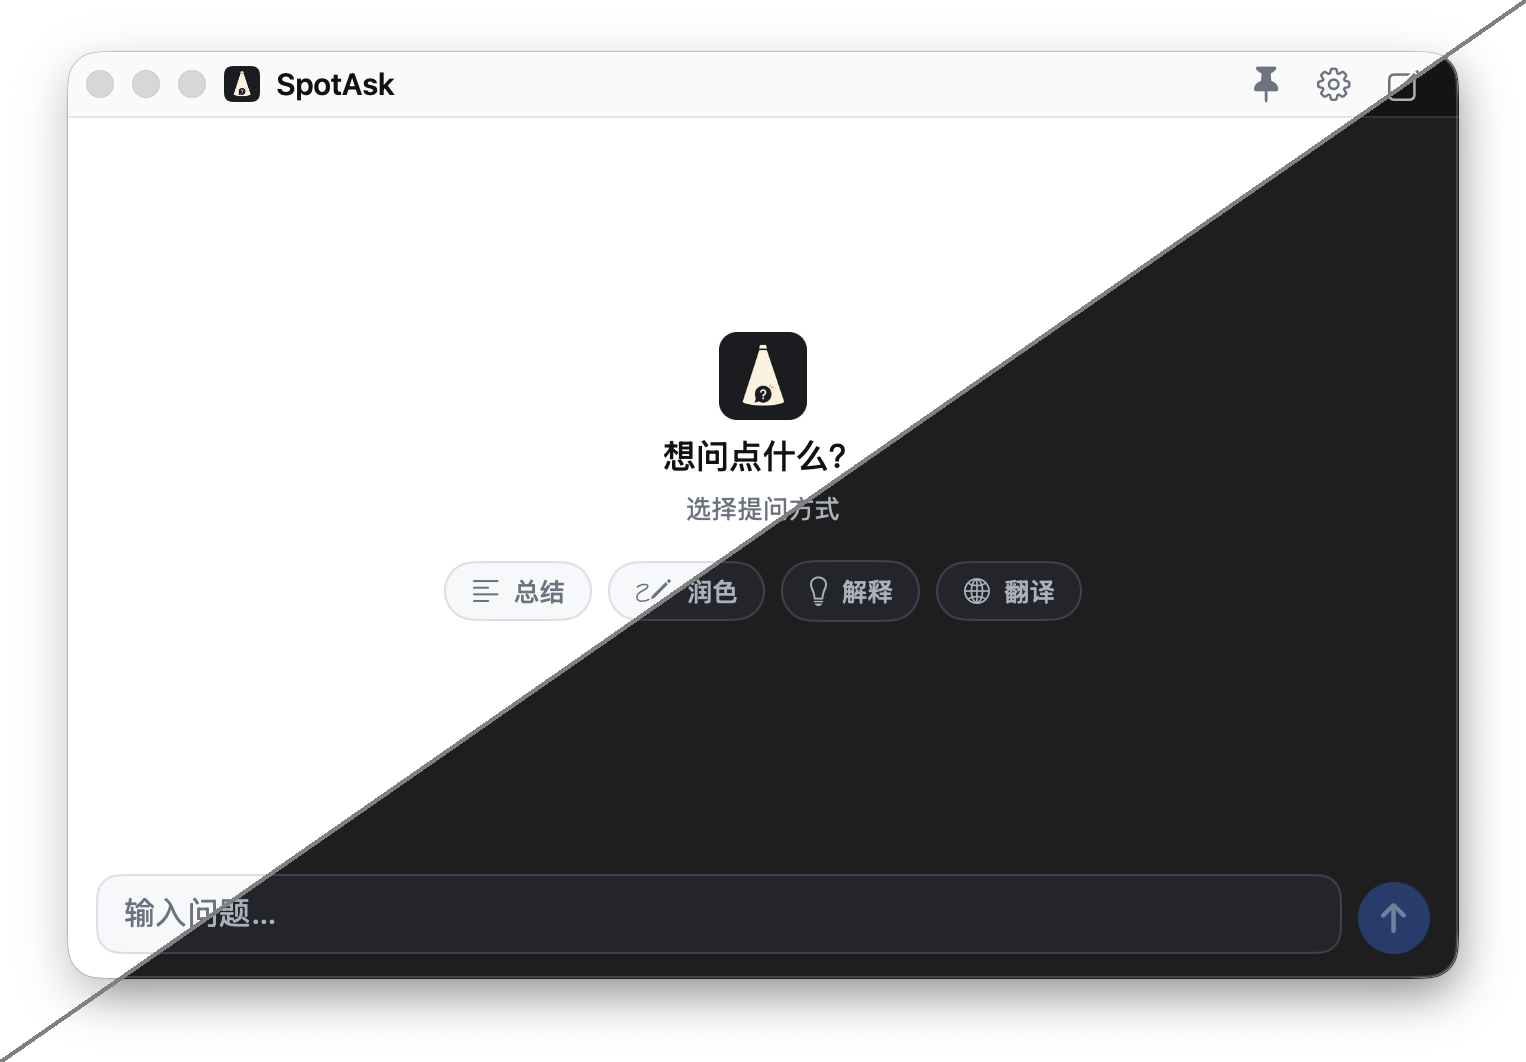
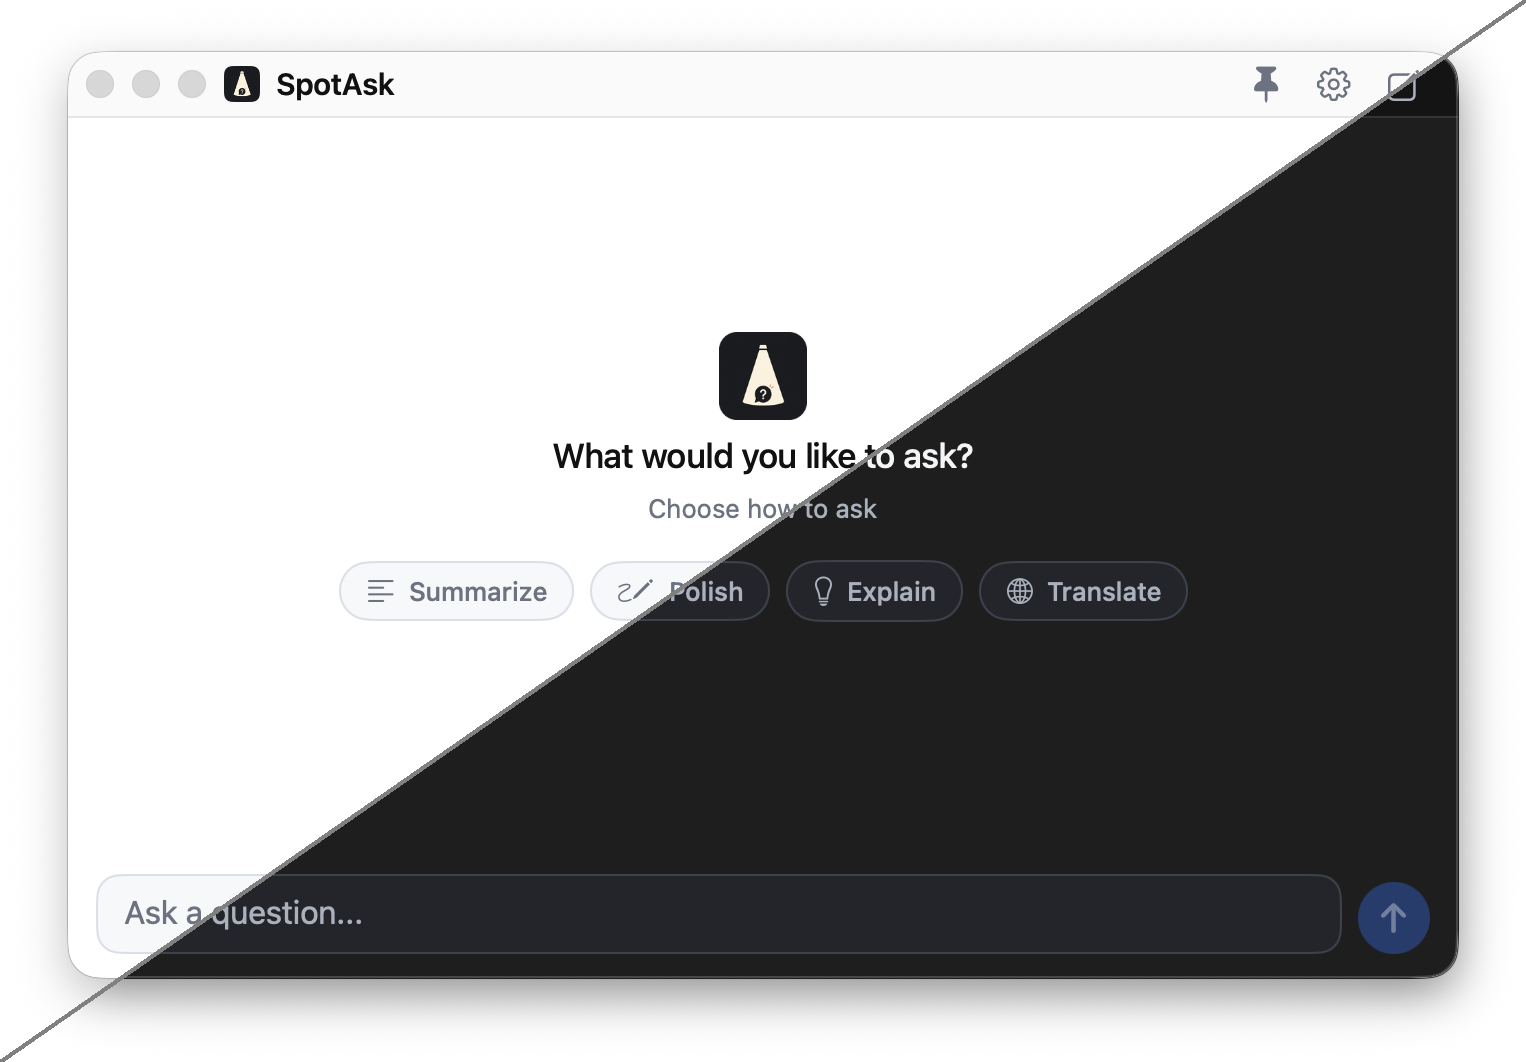
docs: use English screenshot in README

Changed region(s): [[0.2464, 0.5282, 0.77, 0.5904], [0.3696, 0.404, 0.6468, 0.4972], [0.0616, 0.839, 0.2156, 0.8701]]

diff --git a/README.zh-CN.md b/README.zh-CN.md
@@ -23,7 +23,7 @@
 </p>
 
 <p align="center">
-  <img src="images/spotask-chat.png" width="640" alt="SpotAsk 浅色与深色模式下的问答主界面">
+  <img src="images/spotask-chat.png" width="640" alt="SpotAsk 英文界面在浅色与深色模式下的问答主界面">
 </p>
 
 ## 主要功能

diff --git a/README.md b/README.md
@@ -23,7 +23,7 @@
 </p>
 
 <p align="center">
-  <img src="images/spotask-chat.png" width="640" alt="SpotAsk chat window in light and dark appearance">
+  <img src="images/spotask-chat.png" width="640" alt="SpotAsk English chat window in light and dark appearance">
 </p>
 
 ## What SpotAsk does
